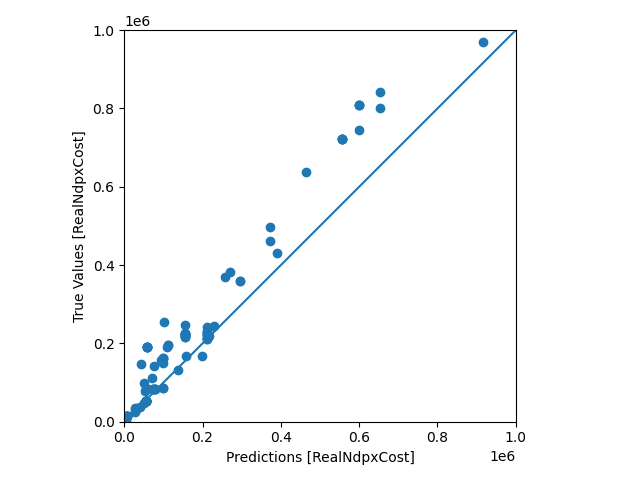
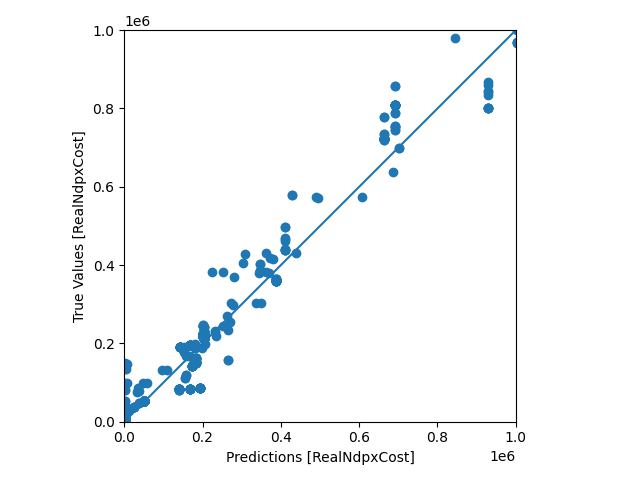
update model and result graph

diff --git a/main.py b/main.py
@@ -11,26 +11,6 @@ from Model import build_and_compile_model
 
 np.set_printoptions(precision=3, suppress=True) # for easier read
 
-class LogisticRegression(tf.Module):
-  def __init__(self):
-    self.built = False
-
-  def __call__(self, x, train=True):
-    # Initialize the model parameters on the first call
-    if not self.built:
-      # Randomly generate the weights and the bias term
-      rand_w = tf.random.uniform(shape=[x.shape[-1], 1], seed=22)
-      rand_b = tf.random.uniform(shape=[], seed=22)
-      self.w = tf.Variable(rand_w)
-      self.b = tf.Variable(rand_b)
-      self.built = True
-    # Compute the model output
-    z = tf.add(tf.matmul(x, self.w), self.b)
-    z = tf.squeeze(z, axis=1)
-    if train:
-      return z
-    return tf.sigmoid(z)
-
 def plot_loss(history):
   plt.plot(history.history['loss'], label='loss')
   plt.plot(history.history['val_loss'], label='val_loss')
@@ -84,7 +64,8 @@ dataset = dataset.dropna()
 dataset = shuffle(dataset)
 
 # generate training & testing dataset & labels
-train_dataset = dataset.sample(frac=0.8, random_state=0)
+# train_dataset = dataset.sample(frac=0.8, random_state=0)
+train_dataset = dataset
 train_dataset = train_dataset.astype(float)
 test_dataset = dataset.drop(train_dataset.index)
 test_dataset = test_dataset.astype(float)
@@ -102,7 +83,6 @@ print(normalizer.mean.numpy())
 
 # generate model
 dnn_model = build_and_compile_model(normalizer)
-# dnn_model = LogisticRegression(penalty='l1', C=0.1)
 dnn_model.summary()
 
 # train model
@@ -111,7 +91,7 @@ history = dnn_model.fit(
   train_labels,
   validation_split=0.2,
   verbose=1,
-  epochs=2000)
+  epochs=1000)
 
 # draw loss
 plot_loss(history)

diff --git a/Model/model.py b/Model/model.py
@@ -1,5 +1,25 @@
 import tensorflow as tf
 
+class LogisticRegression(tf.Module):
+  def __init__(self):
+    self.built = False
+
+  def __call__(self, x, train=True):
+    # Initialize the model parameters on the first call
+    if not self.built:
+      # Randomly generate the weights and the bias term
+      rand_w = tf.random.uniform(shape=[x.shape[-1], 1], seed=22)
+      rand_b = tf.random.uniform(shape=[], seed=22)
+      self.w = tf.Variable(rand_w)
+      self.b = tf.Variable(rand_b)
+      self.built = True
+    # Compute the model output
+    z = tf.add(tf.matmul(x, self.w), self.b)
+    z = tf.squeeze(z, axis=1)
+    if train:
+      return z
+    return tf.sigmoid(z)
+
 def build_and_compile_model(norm):
   model = tf.keras.Sequential([
     norm,
@@ -17,6 +37,8 @@ def build_and_compile_model(norm):
     tf.keras.layers.Dense(1)
   ])
 
-  model.compile(loss='mean_absolute_error',
+  # loss_fn = tf.keras.losses.BinaryCrossentropy()
+  loss_fn = tf.keras.losses.MeanAbsoluteError()
+  model.compile(loss=loss_fn,
                 optimizer=tf.keras.optimizers.Adam(0.001))
   return model
